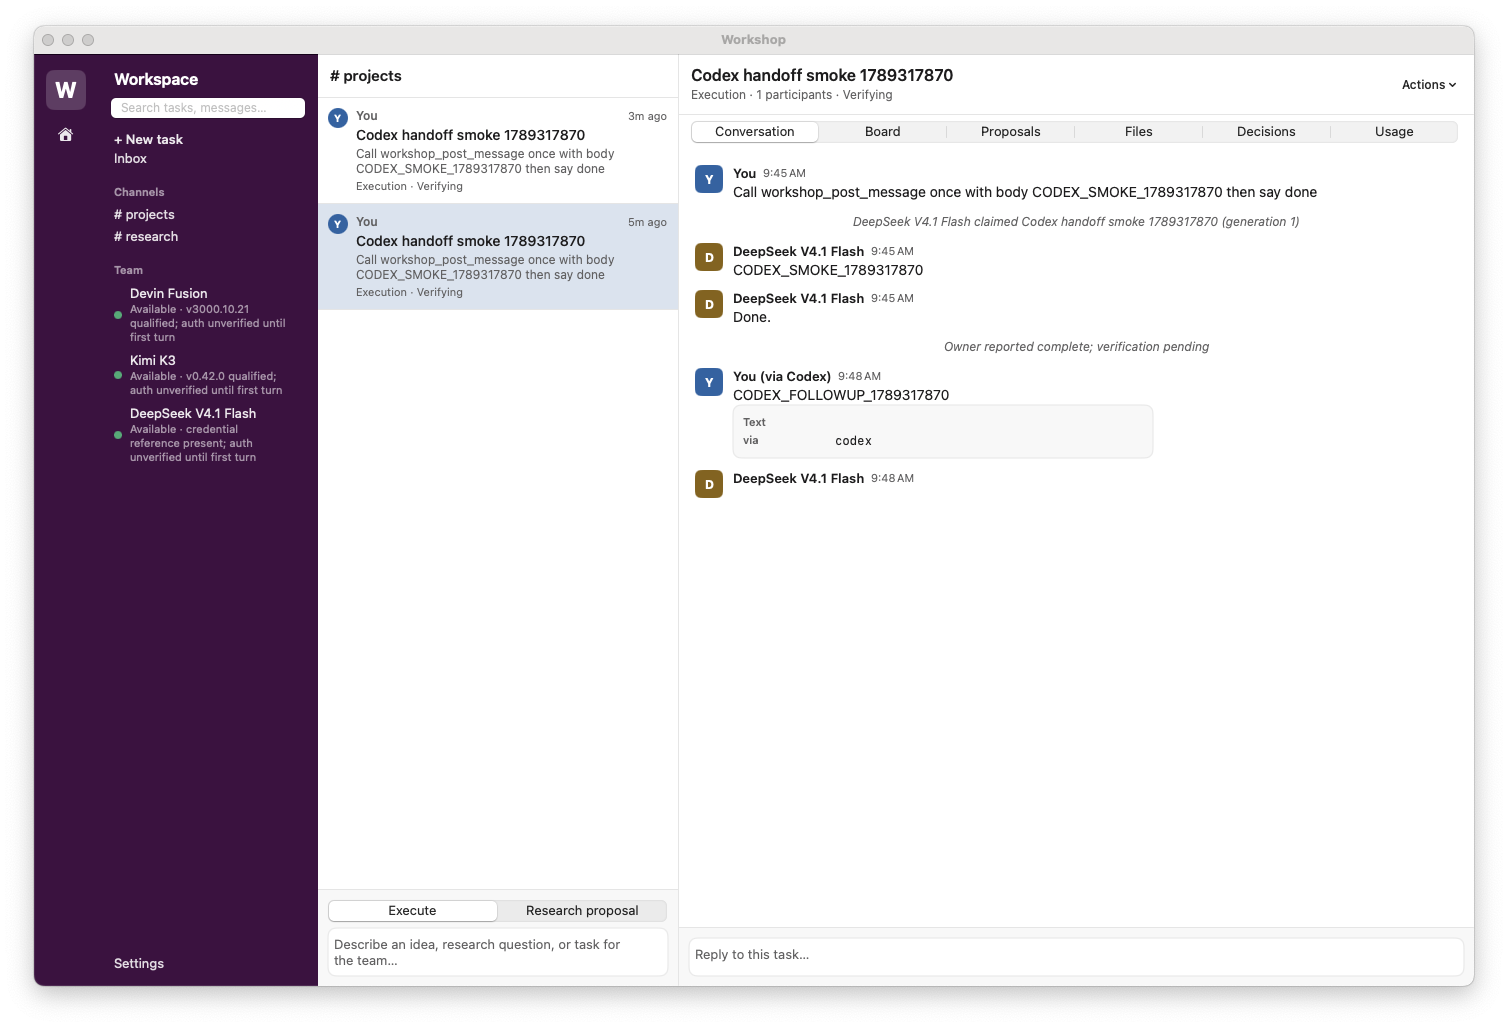
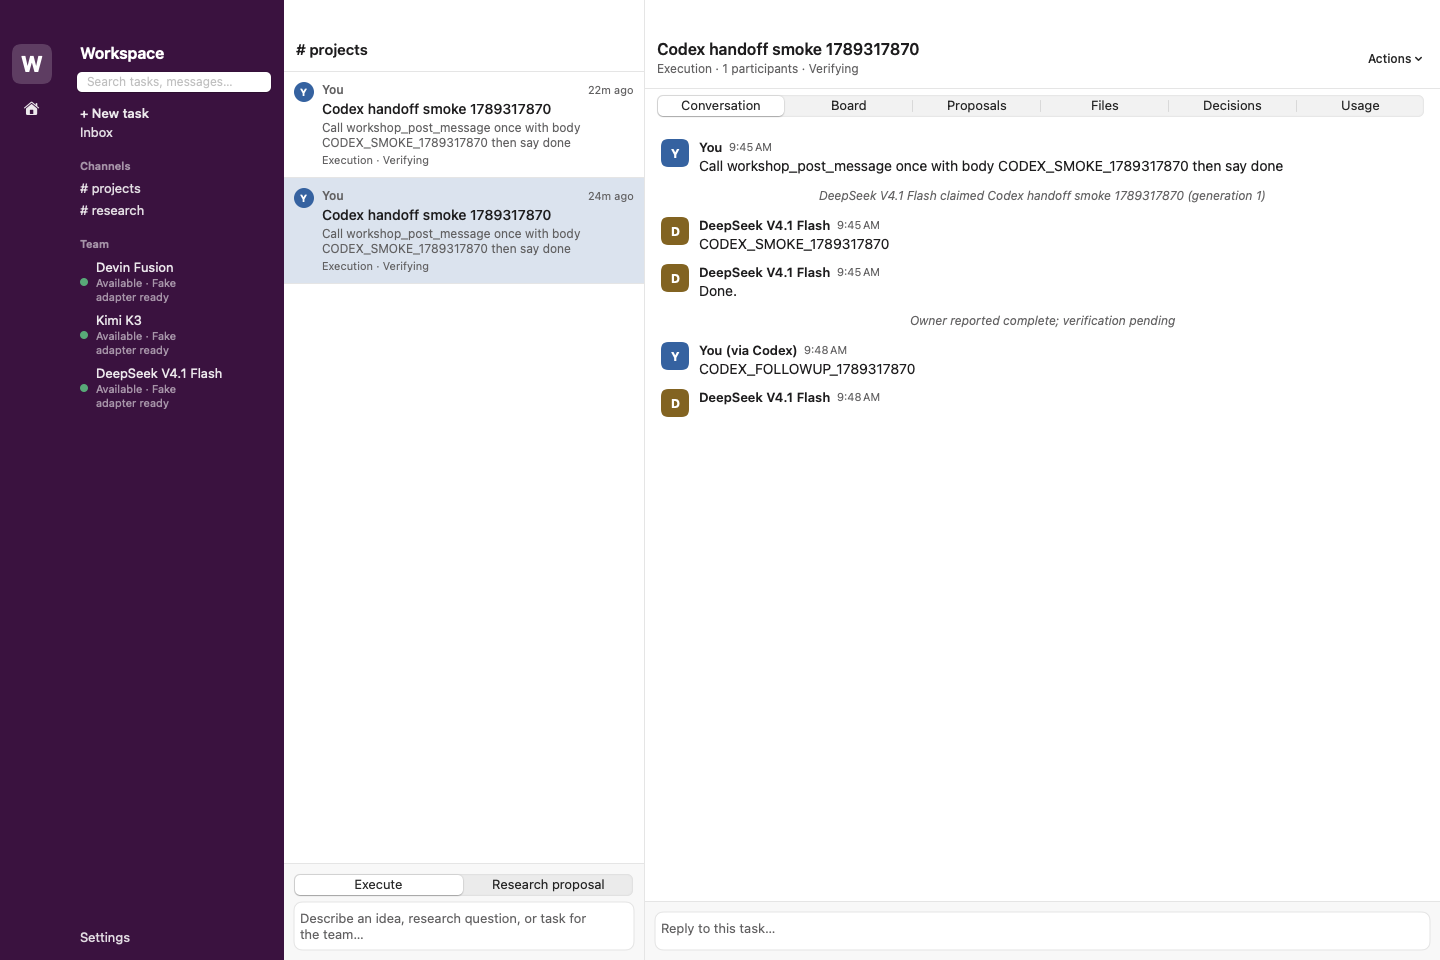
Phase 5 polish: drop empty tool-only turns, hide via-only card, codex key normalization

diff --git a/Sources/WorkshopService/CollaborationService.swift b/Sources/WorkshopService/CollaborationService.swift
@@ -322,9 +322,26 @@ public actor CollaborationService {
 
     /// Create a task: idempotent on `idempotency_key`; single commit for task + root
     /// message + participants + root subtask + outbox (spec §8.4/§8.5, T01/T02).
+    /// Codex sometimes emits the full 64-hex digest instead of the 32-char
+    /// recipe (ADR 0015). A `codex-<33-64 hex>` key is normalized to
+    /// `codex-` + the first 32 hex chars so both forms of the same hash
+    /// dedupe to one task; anything else is used verbatim.
+    static func normalizeCodexKey(_ key: String, principal: Principal) -> String {
+        guard principal == .codex, key.hasPrefix("codex-") else { return key }
+        let hex = key.dropFirst("codex-".count)
+        guard hex.count > 32, hex.count <= 64,
+              hex.allSatisfy({ $0.isHexDigit && !$0.isUppercase }) else {
+            return key
+        }
+        return "codex-" + hex.prefix(32)
+    }
+
     public func createTask(_ request: CreateTaskRequest,
                            principal: Principal = .user) throws -> CreateTaskReceipt {
         try checkStorage()
+        var request = request
+        request.idempotencyKey = Self.normalizeCodexKey(request.idempotencyKey,
+                                                      principal: principal)
         guard !request.title.trimmingCharacters(in: .whitespacesAndNewlines).isEmpty else {
             throw WorkshopError.invalidRequest("title must not be empty")
         }
@@ -1649,6 +1666,7 @@ public actor CollaborationService {
         var usage = UsageSample(source: "unknown")
         var failedReason: String?
         var sawCompletion = false
+        var sawUncertain = false
         // A pending stop request (pause/cancel/quota-stop) asks the turn to
         // end with a checkpoint — only while a turn is running (§6.3).
         let wantsCheckpoint = checkpointRequested.remove(engineer) != nil
@@ -1724,6 +1742,7 @@ public actor CollaborationService {
                                                    turnID: turnID, sample: usage, at: now())
                     }
                 case .uncertain(let note):
+                    sawUncertain = true
                     _ = attempt("uncertainNote") {
                         let t = now()
                         try repo.insertMessage(Message(
@@ -1761,17 +1780,25 @@ public actor CollaborationService {
         reconcileReservation(reservationID, usage: usage, at: endTime)
         _ = attempt("commitTurn") {
             try repo.db.transaction {
-                try repo.updateMessageBody(messageID, body: body, at: endTime)
-                // F1: the placeholder takes its real seq now, so tool-posted
-                // messages from the same turn keep their earlier seqs.
-                try repo.reassignMessageSeq(messageID,
-                                            seq: try repo.nextMessageSeq(task.id),
-                                            at: endTime)
-                try repo.updateMessageDelivery(messageID, .committed, at: endTime)
-                try repo.insertOutbox(taskID: task.id, eventType: "message.committed",
-                                      payload: #"{"message_id":""# + messageID.rawValue
-                                          + #"","task_id":""# + task.id.rawValue + #""}"#,
-                                      deliveryState: "pending", at: endTime)
+                if body.trimmingCharacters(in: .whitespacesAndNewlines).isEmpty,
+                   failedReason == nil, !sawUncertain {
+                    // Tool-only turn produced nothing to show; drop the
+                    // placeholder rather than committing an empty row.
+                    try repo.deleteMessage(messageID)
+                } else {
+                    try repo.updateMessageBody(messageID, body: body, at: endTime)
+                    // F1: the placeholder takes its real seq now, so
+                    // tool-posted messages from the same turn keep their
+                    // earlier seqs.
+                    try repo.reassignMessageSeq(messageID,
+                                                seq: try repo.nextMessageSeq(task.id),
+                                                at: endTime)
+                    try repo.updateMessageDelivery(messageID, .committed, at: endTime)
+                    try repo.insertOutbox(taskID: task.id, eventType: "message.committed",
+                                          payload: #"{"message_id":""# + messageID.rawValue
+                                              + #"","task_id":""# + task.id.rawValue + #""}"#,
+                                          deliveryState: "pending", at: endTime)
+                }
                 if failedReason == nil, sawCompletion {
                     try repo.setLastReadSeq(task.id, engineer, seq: maxSeq, at: endTime)
                 }

diff --git a/Tests/ServiceTests/Phase3ServiceTests.swift b/Tests/ServiceTests/Phase3ServiceTests.swift
@@ -585,6 +585,37 @@ final class Phase3ServiceTests: XCTestCase {
         await svc.shutdown()
     }
 
+    /// A tool-only turn commits no empty placeholder row (Phase 5 polish).
+    func testToolOnlyTurnLeavesNoEmptyMessage() async throws {
+        let adapters = [FakeAdapter(engineer: .devin, delayPerDelta: .zero)]
+        let svc = try CollaborationService(
+            databasePath: dir + "/toolonly.sqlite", adapters: adapters,
+            dispatcherEnabled: true, homeDir: dir, wakeupCoalescence: .zero,
+            researchDeadline: 0, reviewDeadline: 0)
+        adapters[0].script = { context in
+            [.toolCall("workshop_post_message", .object([
+                "task_id": .string(context.task.id.rawValue),
+                "body": .string("TOOL_ONLY_MARKER")]))]
+        }
+        adapters[0].toolRunner = { name, args, principal in
+            try await svc.callTool(name, args: args, principal: principal)
+        }
+        let receipt = try await svc.createTask(CreateTaskRequest(
+            idempotencyKey: "toolonly", title: "T", objective: "o",
+            phase: .execution, participants: [.devin]))
+        await svc.start()
+        let done = await waitFor {
+            try await svc.getTask(receipt.taskID).task.state == .verifying
+        }
+        XCTAssertTrue(done)
+        let messages = try await svc.readMessages(receipt.taskID)
+        XCTAssertTrue(messages.contains { $0.body == "TOOL_ONLY_MARKER" })
+        XCTAssertFalse(messages.contains {
+            $0.body.trimmingCharacters(in: .whitespacesAndNewlines).isEmpty
+        })
+        await svc.shutdown()
+    }
+
     func testRecoveryMessageReflectsOutcome() async throws {
         // Case 1: task was working → blocked.
         let svcA = try makeService(adapters: fakes(), file: "ra.sqlite")

diff --git a/Tests/MCPTests/CodexBridgeTests.swift b/Tests/MCPTests/CodexBridgeTests.swift
@@ -69,6 +69,36 @@ final class CodexBridgeTests: XCTestCase {
         XCTAssertEqual(tasks.count, 1)
     }
 
+    /// T01-via-Codex normalization: a codex key carrying the full 64-hex
+    /// digest and the correct 32-hex form of the same hash map to one task.
+    func testCreateTaskKeyNormalization() async throws {
+        let hex64 = String(repeating: "0123456789abcdef", count: 4)
+        let full = try await service.callTool(
+            "workshop_create_task", args: createArgs(key: "codex-" + hex64),
+            principal: codex)
+        let short = try await service.callTool(
+            "workshop_create_task",
+            args: createArgs(key: "codex-" + String(hex64.prefix(32))),
+            principal: codex)
+        XCTAssertEqual(full["task_id"], short["task_id"])
+        let tasks = try await service.listTasks()
+        XCTAssertEqual(tasks.count, 1)
+        // A key that does not match codex-<33-64 hex> is used verbatim.
+        _ = try await service.callTool(
+            "workshop_create_task",
+            args: createArgs(key: "codex-" + hex64 + "ff"), // 66 hex → verbatim
+            principal: codex)
+        var count = try await service.listTasks().count
+        XCTAssertEqual(count, 2)
+        // User principal keys are never rewritten.
+        _ = try await service.callTool(
+            "workshop_create_task",
+            args: createArgs(key: "codex-" + hex64),
+            principal: .user)
+        count = try await service.listTasks().count
+        XCTAssertEqual(count, 3)
+    }
+
     /// T02: same idempotency key, different payload → idempotency conflict.
     func testCreateTaskIdempotencyConflict() async throws {
         _ = try await service.callTool(

diff --git a/Sources/WorkshopApp/TaskPaneView.swift b/Sources/WorkshopApp/TaskPaneView.swift
@@ -269,7 +269,8 @@ struct MessageRow: View {
                         .textSelection(.enabled)
                     if let structured = message.structured,
                        let card = try? JSONDecoder().decode(JSONValue.self,
-                                                            from: Data(structured.utf8)) {
+                                                            from: Data(structured.utf8)),
+                       !card.isViaOnly {
                         StructuredCard(kind: message.kind, payload: card)
                     }
                 }

diff --git a/Sources/WorkshopCore/JSONRPC.swift b/Sources/WorkshopCore/JSONRPC.swift
@@ -46,6 +46,13 @@ public enum JSONValue: Codable, Equatable, Sendable {
         return nil
     }
 
+    /// True when the object carries only the `via` provenance marker — the
+    /// author label already conveys it, so no structured card is warranted.
+    public var isViaOnly: Bool {
+        if case .object(let o) = self { return !o.isEmpty && o.keys.allSatisfy { $0 == "via" } }
+        return false
+    }
+
     public subscript(key: String) -> JSONValue? {
         if case .object(let o) = self { return o[key] }
         return nil

diff --git a/Sources/WorkshopStore/Repository.swift b/Sources/WorkshopStore/Repository.swift
@@ -227,6 +227,10 @@ public final class WorkshopRepository {
         ])
     }
 
+    public func deleteMessage(_ id: MessageID) throws {
+        try db.execute("DELETE FROM messages WHERE id=?", [.text(id.rawValue)])
+    }
+
     public func updateMessageDelivery(_ id: MessageID, _ state: DeliveryState, at now: Date) throws {
         try db.execute("UPDATE messages SET delivery_state=?, updated_at=? WHERE id=?", [
             .text(state.rawValue), .text(WorkshopTime.string(now)), .text(id.rawValue),

diff --git a/docs/validation.md b/docs/validation.md
@@ -272,15 +272,20 @@ macOS / hardware / toolchain: macOS 15.6.1 / arm64 / Xcode 26.3 / Swift 6.2.4
 Harness versions:             devin 3000.10.21 / codex CLI 0.147.0
 Effective model selectors:    live adapters for the packaged daemon during the
                               Codex run (deepseek only); fake adapters elsewhere
-Tests run:                    ./scripts/test.sh — exit 0 — ~17 s
-                              117 tests, 110 passed, 7 skipped (opt-in live),
+Tests run:                    ./scripts/test.sh — exit 0 — ~16.3 s
+                              119 tests, 112 passed, 7 skipped (opt-in live),
                               0 failures
-                              New: CodexBridgeTests (7) — codex token auth,
-                              T01 duplicate receipt, T02 idempotency conflict
+                              New: CodexBridgeTests (8) — codex token auth,
+                              T01 duplicate receipt, T01-via-Codex key
+                              normalization (64-hex and 32-hex forms of one
+                              hash → one task), T02 idempotency conflict
                               (-32009, "idempotency conflict"), T27 forbidden
                               actions (-32005 incl. injected approve/accept),
                               via=codex message + owner wakeup, T35 offline
-                              bridge isError text.
+                              bridge isError text. Phase3ServiceTests gained
+                              testToolOnlyTurnLeavesNoEmptyMessage (tool-only
+                              turn drops the placeholder instead of
+                              committing an empty row).
 Binary T35 check:             .build/debug/workshop-mcp --principal codex with
                               no daemon → tools/list answered, tools/call →
                               isError "Workshop service is not running. Open
@@ -300,7 +305,11 @@ lsregister:                   -f ~/Applications/Workshop.app exit 0;
 Deep link:                    open "workshop://task/<redacted-task-id>" launches
                               the app and selects the task; unknown id shows
                               an in-app notice. Cold-launch race handled by a
-                              bounded retry (6 s).
+                              bounded retry (6 s). Screenshot re-captured
+                              after the tool-only-empty-message fix: the
+                              DeepSeek tool-only row no longer renders, and
+                              via=codex messages no longer show a "via codex"
+                              structured card (author label suffices).
 Fresh install:                open Workshop.app → creates
                               ~/Library/Application Support/Workshop tree,
                               profiles/codex/token (0600), bin/workshop-mcp
@@ -332,9 +341,13 @@ Codex run results:            run 1 created <redacted-task-id> via
                               Run 2 (same brief): model emitted the FULL
                               64-char sha (skill says truncate to 32) →
                               distinct idempotency key → second task
-                              <redacted-task-id> created. Service dedupe is
-                              exact-key; the divergence is prompt-following,
-                              not service logic — deterministic T01 passes.
+                              <redacted-task-id> created. FIXED defensively in
+                              rc1: the skill now prescribes an exact
+                              `shasum -a 256 | cut -c1-32` recipe (key MUST
+                              be 38 chars) and the service normalizes
+                              `codex-<33-64 hex>` keys to the 32-hex form for
+                              the codex principal (ADR 0015); deterministic
+                              normalization test added.
                               Run 3 (follow-up): workshop_post_message → seq 6,
                               author user, via=codex, owner wakeup dispatched.
 Screenshots:                  docs/evidence/phase5/ — deeplink-task.png

diff --git a/docs/final-report.md b/docs/final-report.md
@@ -29,7 +29,7 @@ Commit: see `git log main`; tag `v0.1.0-rc1`.
 
 ## Tested
 
-Deterministic (`./scripts/test.sh`, 117 tests, 0 failures, ~17 s):
+Deterministic (`./scripts/test.sh`, 119 tests, 0 failures, ~16 s):
 create/dedupe/conflict, claim CAS, pre-dispatch crash recovery, fenced stale
 generations, interrupted-turn reconcile + checkpoint resume, capacity
 block/unknown, lease CAS + takeover, cancel states, storage guard, paging,
@@ -64,8 +64,9 @@ Live (approved calls only):
 - None outstanding. Non-blocking known issues: `codex exec` needed
   `-m gpt-5.6-luna` (configured `gpt-6-astra` requires a newer CLI); the
   second Codex run emitted the untruncated 64-char idempotency hash and
-  created a second task — prompt-following variance, service dedupe is
-  exact-key and correct; overwriting the app bundle in place SIGKILLs a
+  created a second task — fixed defensively (exact `shasum` recipe in the
+  team skill + service-side `codex-<33-64 hex>` → 32-hex normalization,
+  ADR 0015); overwriting the app bundle in place SIGKILLs a
   running daemon (install = rm/move then copy, ADR 0016).
 
 ## Acceptance matrix
@@ -75,7 +76,7 @@ by the XCTest suite; "passed-live" = observed against real provider/CLI.
 
 | Row | Status | Evidence |
 |-----|--------|----------|
-| T01 create idempotent | passed-deterministic (live partial — see note) | ServiceTests.testT01IdempotentCreate; CodexBridgeTests.testCreateTaskIdempotentDuplicate; live transcript 2 created a second task because the model used the full hash — key fidelity, not dedupe failure |
+| T01 create idempotent | passed-deterministic | ServiceTests.testT01IdempotentCreate; CodexBridgeTests.testCreateTaskIdempotentDuplicate + testCreateTaskKeyNormalization (64-hex and 32-hex `codex-` forms of one hash → one task); live transcript 2 pre-dated the normalization fix |
 | T02 idempotency conflict | passed-deterministic | ServiceTests.testT02IdempotencyConflict; CodexBridgeTests.testCreateTaskIdempotencyConflict (-32009, "idempotency conflict") |
 | T03 pre-dispatch crash | passed-deterministic | ServiceTests.testT03PreDispatchCrashRecovery |
 | T04 atomic claim | passed-deterministic | ServiceTests.testT04AtomicClaimSingleWinner; StoreTests.testCASClaim |

diff --git a/docs/adr/0015-codex-principal-authority.md b/docs/adr/0015-codex-principal-authority.md
@@ -49,3 +49,12 @@ the authority the spec keeps in the app (§9.3).
   and created a second task. Service-side dedupe is exact-key only — callers
   that truncate inconsistently get distinct operations (documented in
   validation.md; not a service defect).
+
+## Idempotency-key normalization
+
+Codex occasionally emits the full 64-hex SHA-256 instead of the 32-hex recipe
+in the team skill. `createTask` therefore normalizes, for principal `codex`
+only, any key matching `codex-<33-64 hex>` to `codex-` + the first 32 hex
+characters before hashing and storing it — both spellings of the same brief
+dedupe to one task. Keys outside that shape are used verbatim; user-principal
+keys are never rewritten. Covered by `CodexBridgeTests.testCreateTaskKeyNormalization`.

diff --git a/docs/evidence/phase5/report.md b/docs/evidence/phase5/report.md
@@ -10,8 +10,9 @@
 - `live/codex-transcript-3.txt` — follow-up post_message: seq 6 committed,
   author user + via=codex, owner wakeup dispatched.
 - `deeplink-task.png` — `open workshop://task/<redacted-task-id>` selected the
-  Codex-created task in the packaged app (1508×1028 capture of a 1440×960
-  window).
+  Codex-created task in the packaged app. Re-captured on the rc1 rebuild:
+  the tool-only DeepSeek turn no longer leaves an empty row and via=codex
+  messages no longer show a "via codex" structured card.
 - `update-banner.png` — installed app (0.1.0-rc1) against a daemon running
   from a 0.1.0-test99 bundle: build-mismatch banner.
 - `update-banner-1440x960.png` — same banner rendered deterministically via
